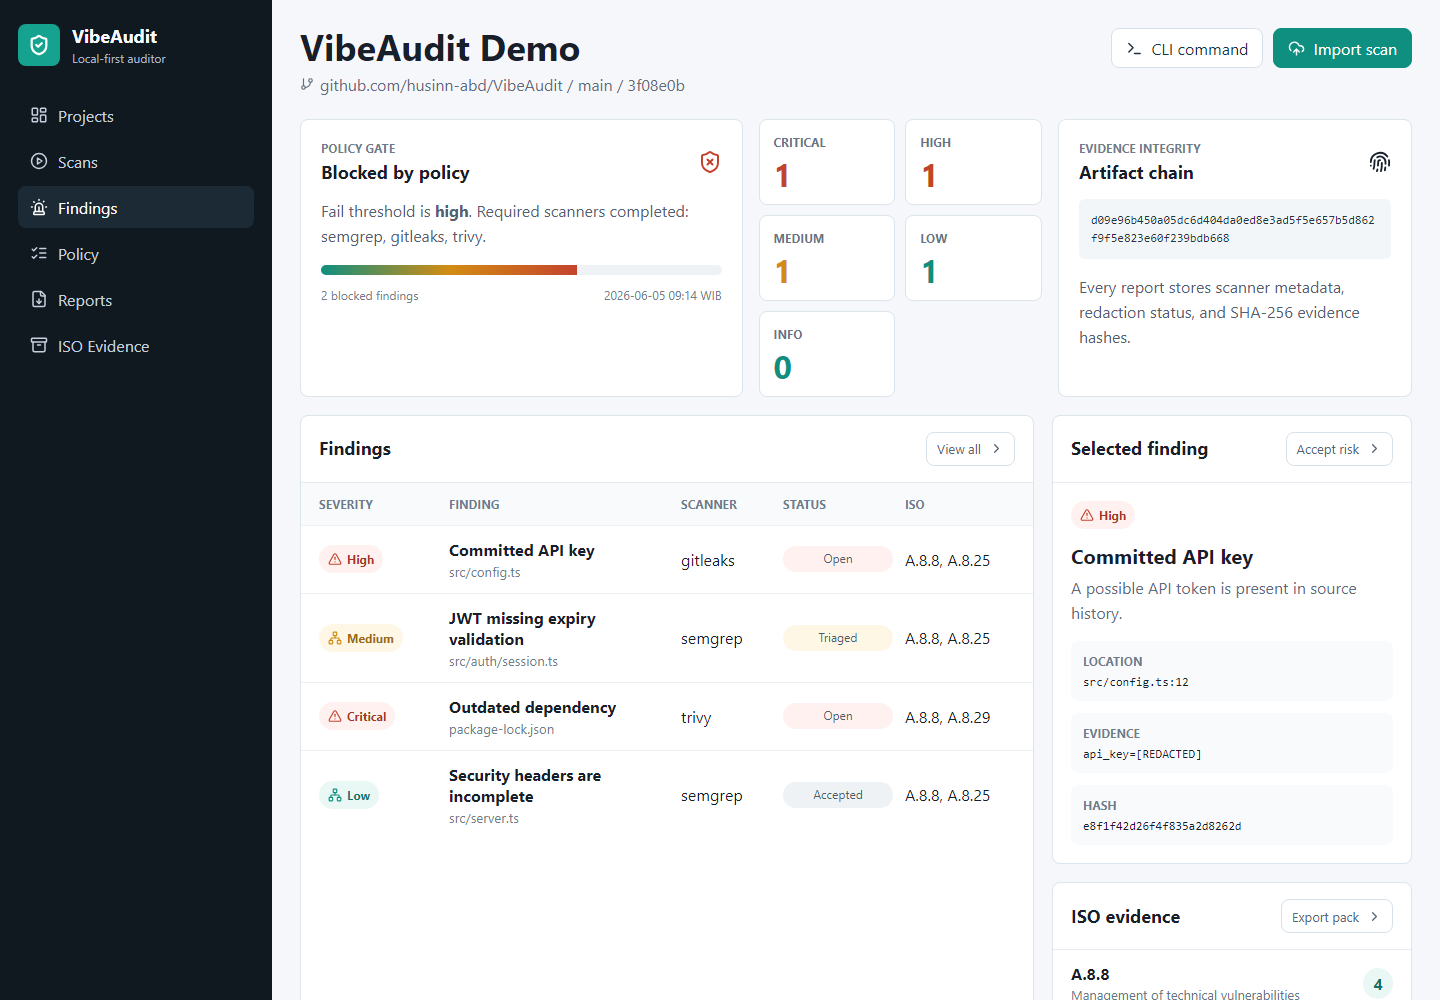
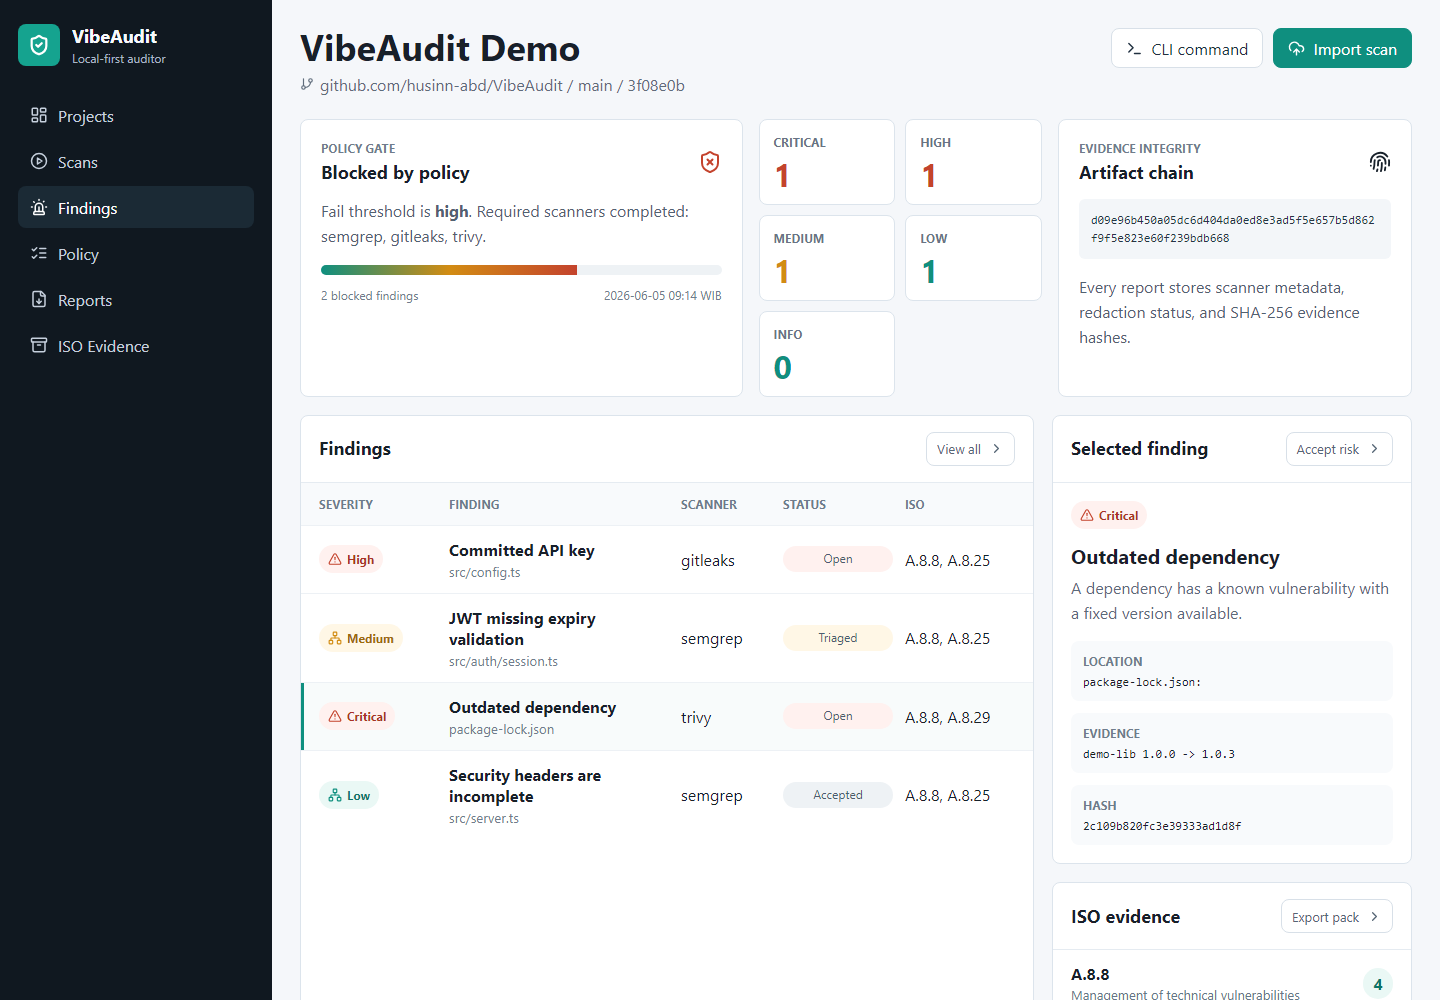
Use real dashboard capture in README

Changed region(s): [[0.75, 0.496, 0.9375, 0.62], [0.75, 0.806, 0.875, 0.837], [0.75, 0.744, 0.8438, 0.775]]

diff --git a/apps/web/src/App.tsx b/apps/web/src/App.tsx
@@ -21,6 +21,7 @@ import {
   Terminal,
   UploadCloud
 } from "lucide-react";
+import { useMemo, useState } from "react";
 import type { ReactNode } from "react";
 import { findings, isoCoverage, policyEvaluation, project, scannerRuns } from "./data.js";
 import type { NormalizedFinding, Severity } from "@vibeaudit/core";
@@ -37,11 +38,17 @@ const navItems = [
 const severityOrder: Severity[] = ["critical", "high", "medium", "low", "info"];
 
 export function App() {
+  const [activeNav, setActiveNav] = useState("Findings");
+  const [selectedFindingId, setSelectedFindingId] = useState(findings[0]!.id);
+  const [exportStatus, setExportStatus] = useState("No report generated in this session");
   const severityCounts = severityOrder.map((severity) => ({
     severity,
     count: findings.filter((finding) => finding.severity === severity).length
   }));
-  const selectedFinding = findings[0]!;
+  const selectedFinding = useMemo(
+    () => findings.find((finding) => finding.id === selectedFindingId) ?? findings[0]!,
+    [selectedFindingId]
+  );
 
   return (
     <div className="app-shell">
@@ -57,8 +64,13 @@ export function App() {
         </div>
 
         <nav className="nav-list">
-          {navItems.map((item, index) => (
-            <button className={index === 2 ? "nav-item active" : "nav-item"} key={item.label}>
+          {navItems.map((item) => (
+            <button
+              aria-pressed={activeNav === item.label}
+              className={activeNav === item.label ? "nav-item active" : "nav-item"}
+              key={item.label}
+              onClick={() => setActiveNav(item.label)}
+            >
               <item.icon size={18} />
               <span>{item.label}</span>
             </button>
@@ -150,7 +162,12 @@ export function App() {
                   <span>ISO</span>
                 </div>
                 {findings.map((finding) => (
-                  <FindingRow finding={finding} key={finding.id} />
+                  <FindingRow
+                    finding={finding}
+                    isSelected={finding.id === selectedFinding.id}
+                    key={finding.id}
+                    onSelect={() => setSelectedFindingId(finding.id)}
+                  />
                 ))}
               </div>
             </Panel>
@@ -210,11 +227,12 @@ export function App() {
 
             <Panel title="Report exports" action="Generate">
               <div className="export-grid">
-                <button><FileDown size={18} /> HTML</button>
-                <button><FileDown size={18} /> PDF</button>
-                <button><FileJson size={18} /> JSON</button>
-                <button><Gauge size={18} /> SARIF</button>
+                <button onClick={() => setExportStatus("HTML report queued for the selected scan")}><FileDown size={18} /> HTML</button>
+                <button onClick={() => setExportStatus("PDF report queued for the selected scan")}><FileDown size={18} /> PDF</button>
+                <button onClick={() => setExportStatus("JSON machine report ready")}><FileJson size={18} /> JSON</button>
+                <button onClick={() => setExportStatus("SARIF export ready for code scanning")}><Gauge size={18} /> SARIF</button>
               </div>
+              <p className="export-status" aria-live="polite">{exportStatus}</p>
             </Panel>
 
             <div className="ai-note">
@@ -243,9 +261,22 @@ function Panel(props: { title: string; action: string; children: ReactNode }) {
   );
 }
 
-function FindingRow({ finding }: { finding: NormalizedFinding }) {
+function FindingRow({
+  finding,
+  isSelected,
+  onSelect
+}: {
+  finding: NormalizedFinding;
+  isSelected: boolean;
+  onSelect: () => void;
+}) {
   return (
-    <div className="table-row" role="row">
+    <button
+      aria-pressed={isSelected}
+      className={isSelected ? "table-row finding-row selected" : "table-row finding-row"}
+      onClick={onSelect}
+      role="row"
+    >
       <span>
         <SeverityBadge severity={finding.severity} />
       </span>
@@ -256,7 +287,7 @@ function FindingRow({ finding }: { finding: NormalizedFinding }) {
       <span>{finding.scanner}</span>
       <span className={`status status-${finding.status}`}>{finding.status.replace("_", " ")}</span>
       <span>{finding.isoControls.slice(0, 2).join(", ")}</span>
-    </div>
+    </button>
   );
 }
 

diff --git a/apps/web/src/styles.css b/apps/web/src/styles.css
@@ -353,6 +353,26 @@ button {
   padding: 13px 18px;
 }
 
+.finding-row {
+  background: #ffffff;
+  border-left: 0;
+  border-right: 0;
+  border-top: 0;
+  color: inherit;
+  cursor: pointer;
+  text-align: left;
+  width: 100%;
+}
+
+.finding-row:hover,
+.finding-row.selected {
+  background: #f8fbfb;
+}
+
+.finding-row.selected {
+  box-shadow: inset 3px 0 0 #0f8f7f;
+}
+
 .table-row:last-child {
   border-bottom: 0;
 }
@@ -560,6 +580,20 @@ button {
   gap: 8px;
   justify-content: center;
   min-height: 42px;
+}
+
+.export-grid button:hover {
+  border-color: #0f8f7f;
+  color: #0a7568;
+}
+
+.export-status {
+  border-top: 1px solid #edf1f5;
+  color: #5f6d7c;
+  font-size: 13px;
+  line-height: 1.4;
+  margin: 0;
+  padding: 0 18px 18px;
 }
 
 .ai-note {

diff --git a/README.md b/README.md
@@ -16,6 +16,10 @@ uploading source code by default.
 
 ![VibeAudit dashboard](./docs/assets/vibeaudit-dashboard.png)
 
+Screenshot captured from the real `apps/web` dashboard running locally. The
+sample data is seeded demo data, but the interface, selection state, policy
+panel, evidence panel, and report controls are rendered by the application.
+
 ## Why VibeAudit
 
 Security scanners are useful, but their output is often scattered across CLI
